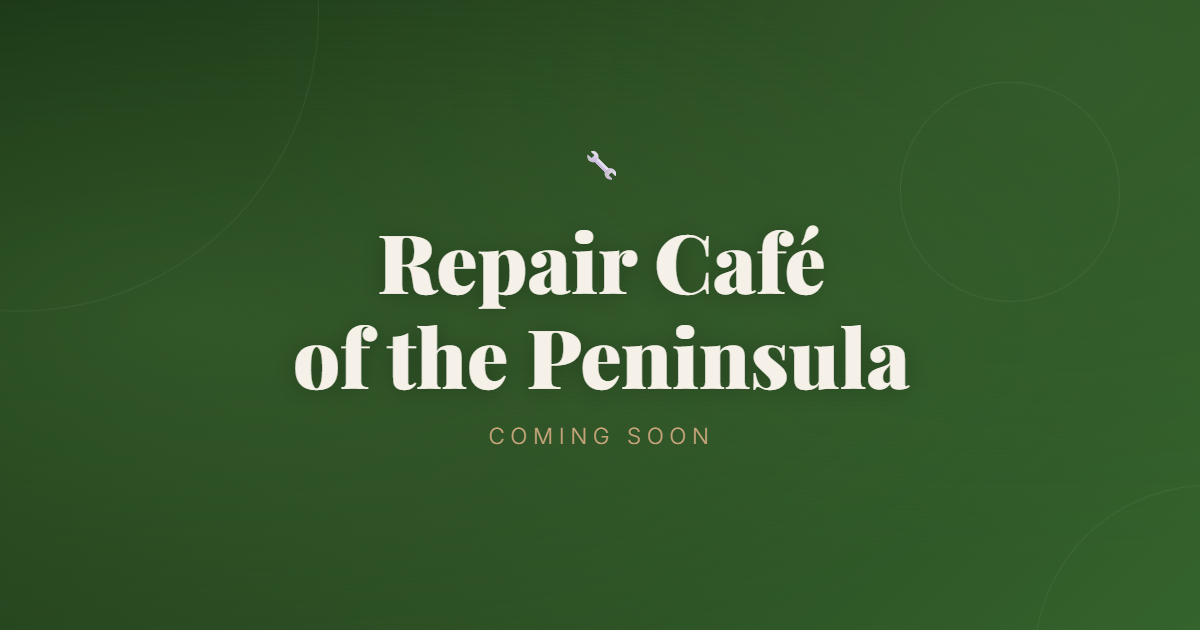
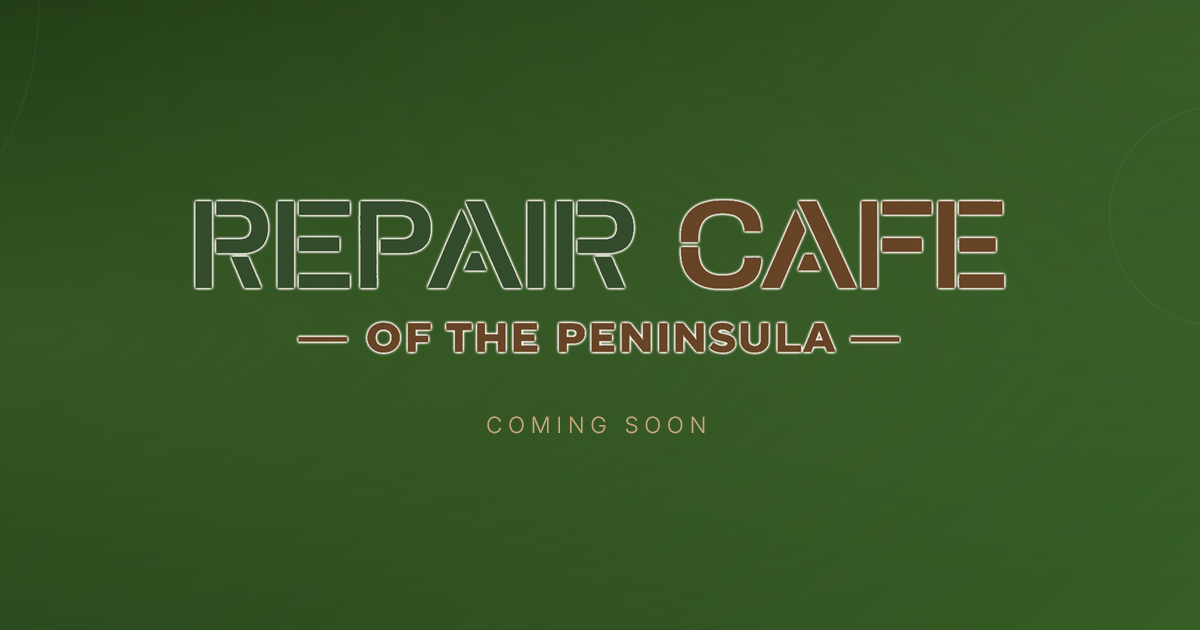
Updated branding

Changed region(s): [[0.1542, 0.2413, 0.8633, 0.6333], [0.4008, 0.6635, 0.5858, 0.7238]]

diff --git a/index.html b/index.html
@@ -88,21 +88,11 @@
       to   { opacity: 1; transform: translateY(0); }
     }
 
-    .logo {
-      font-size: 2rem;
-      margin-bottom: 28px;
+    .logo-img {
       display: block;
+      width: min(840px, 80vw);
+      margin: 0 auto 40px;
       animation: fadeUp 1s ease 0s both;
-    }
-
-    h1 {
-      font-family: 'Playfair Display', Georgia, serif;
-      font-size: clamp(2.8rem, 6vw, 5.5rem);
-      font-weight: 900;
-      color: var(--cream);
-      line-height: 1.15;
-      margin-bottom: 20px;
-      text-shadow: 0 2px 24px rgba(0,0,0,0.25);
     }
 
     .coming-soon {
@@ -197,8 +187,7 @@
   </div>
 
   <div class="content">
-    <span class="logo">🔧</span>
-    <h1>Repair Café<br/>of the Peninsula</h1>
+    <img src="rcp.png" alt="Repair Café of the Peninsula" class="logo-img" />
     <span class="coming-soon">Coming Soon</span>
     <div class="divider"></div>
     <div class="signup-block">